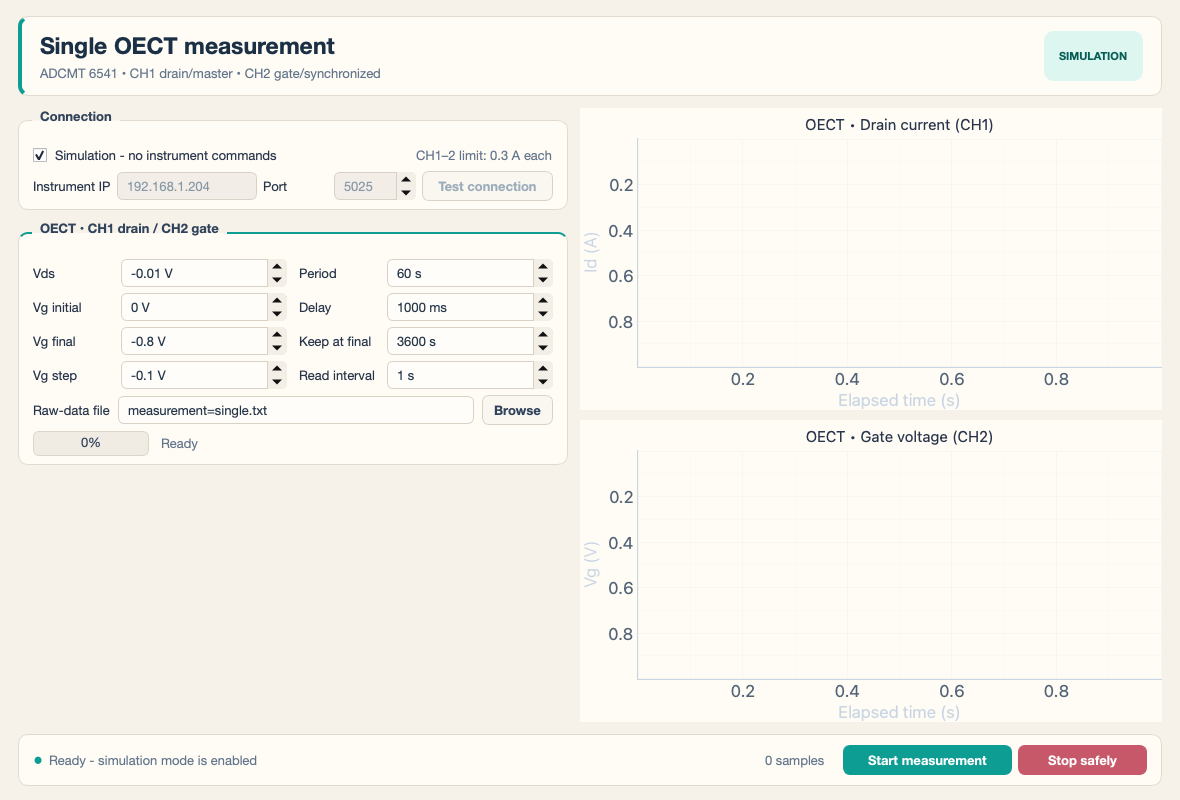
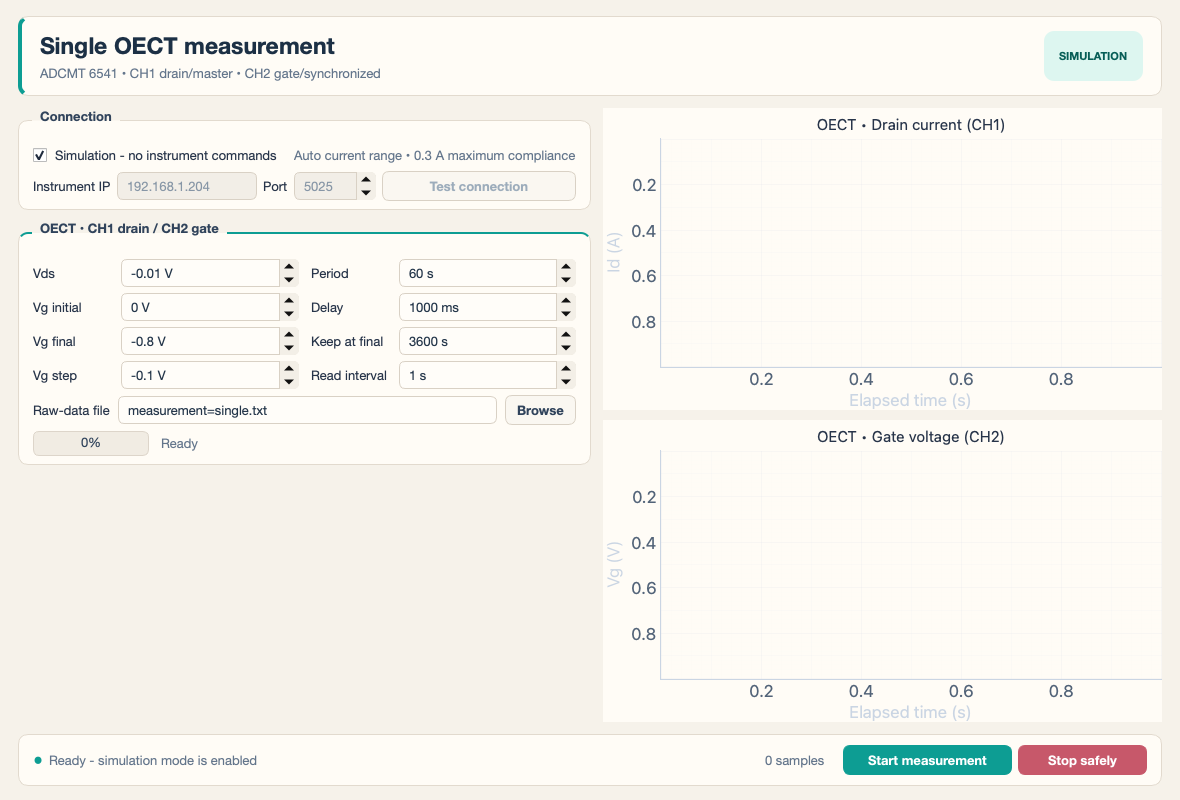
Enable automatic current ranging for OECT measurements

diff --git a/oect_dual_gui.py b/oect_dual_gui.py
@@ -257,7 +257,8 @@ class DualOECTInstrument:
                 f"SOV{format_number(voltage_v)}",
                 "FX0",
                 "F2",
-                "R1",
+                "R0",
+                "RD0",
                 "IT5",
                 "AZ0",
                 "RE5",
@@ -268,6 +269,11 @@ class DualOECTInstrument:
                 "ST1",
             ):
                 inst.write(command)
+            range_mode = inst.query("R?").replace(" ", "").upper()
+            if range_mode not in {"R0", "0", "+0"}:
+                raise ADCMTError(
+                    f"CH{channel} current auto-range verification failed: {range_mode!r}"
+                )
             if channel == 1:
                 for command in (
                     f"SP0,0.055,{format_number(base_ms)}",
@@ -863,9 +869,9 @@ class MainWindow(QtWidgets.QMainWindow):
         self.test_button = QtWidgets.QPushButton("Test connection")
         self.test_button.setProperty("secondary", True)
         self.test_button.clicked.connect(self._test_connection)
-        compliance = QtWidgets.QLabel("CH 1–4 limit: 0.3 A each")
+        compliance = QtWidgets.QLabel("Auto current range • 0.3 A maximum compliance")
         compliance.setProperty("muted", True)
-        compliance.setToolTip("Fixed current compliance on all four channels; confirm device safety before live runs")
+        compliance.setToolTip("Current measurement auto-ranges; maximum source compliance remains 0.3 A")
         grid.addWidget(self.simulation, 0, 0, 1, 3)
         grid.addWidget(compliance, 0, 3, 1, 3, QtCore.Qt.AlignRight)
         grid.addWidget(QtWidgets.QLabel("Instrument IP"), 1, 0)
@@ -1001,7 +1007,7 @@ class MainWindow(QtWidgets.QMainWindow):
         self.status_label.setText(
             "Ready - simulation mode is enabled"
             if checked
-            else "Ready - review wiring and fixed 0.3 A current limits before starting"
+            else "Ready - review wiring and polarity before starting"
         )
 
     def _cell_plan(self, name: str, controls: CellControls) -> CellPlan:
@@ -1075,18 +1081,6 @@ class MainWindow(QtWidgets.QMainWindow):
                 "Replace existing output?",
                 "The following output file(s) already exist and will be replaced:\n\n"
                 + "\n".join(str(path) for path in existing),
-                QtWidgets.QMessageBox.Yes | QtWidgets.QMessageBox.No,
-                QtWidgets.QMessageBox.No,
-            )
-            if answer != QtWidgets.QMessageBox.Yes:
-                return
-
-        if not plan.simulation:
-            answer = QtWidgets.QMessageBox.warning(
-                self,
-                "Confirm 0.3 A current limits",
-                "All four current limits are fixed at 0.3 A, matching the LabVIEW defaults. "
-                "That may be unsafe for an OECT. Start the live measurement anyway?",
                 QtWidgets.QMessageBox.Yes | QtWidgets.QMessageBox.No,
                 QtWidgets.QMessageBox.No,
             )

diff --git a/oect_single_gui.py b/oect_single_gui.py
@@ -99,7 +99,8 @@ class SingleOECTInstrument:
                 f"SOV{format_number(voltage_v)}",
                 "FX0",
                 "F2",
-                "R1",
+                "R0",
+                "RD0",
                 "IT5",
                 "AZ0",
                 "RE5",
@@ -110,6 +111,11 @@ class SingleOECTInstrument:
                 "ST1",
             ):
                 inst.write(command)
+            range_mode = inst.query("R?").replace(" ", "").upper()
+            if range_mode not in {"R0", "0", "+0"}:
+                raise ADCMTError(
+                    f"CH{channel} current auto-range verification failed: {range_mode!r}"
+                )
             if channel == 1:
                 commands = (
                     f"SP0,0.055,{format_number(base_ms)}",
@@ -399,7 +405,7 @@ class SingleOECTWindow(MainWindow):
         self.test_button = QtWidgets.QPushButton("Test connection")
         self.test_button.setProperty("secondary", True)
         self.test_button.clicked.connect(self._test_connection)
-        compliance = QtWidgets.QLabel("CH1–2 limit: 0.3 A each")
+        compliance = QtWidgets.QLabel("Auto current range • 0.3 A maximum compliance")
         compliance.setProperty("muted", True)
         grid.addWidget(self.simulation, 0, 0, 1, 3)
         grid.addWidget(compliance, 0, 3, 1, 3, QtCore.Qt.AlignRight)
@@ -486,18 +492,6 @@ class SingleOECTWindow(MainWindow):
             )
             if answer != QtWidgets.QMessageBox.Yes:
                 return
-        if not plan.simulation:
-            answer = QtWidgets.QMessageBox.warning(
-                self,
-                "Confirm 0.3 A current limits",
-                "CH1 and CH2 current limits are fixed at 0.3 A. "
-                "That may be unsafe for an OECT. Start the live measurement anyway?",
-                QtWidgets.QMessageBox.Yes | QtWidgets.QMessageBox.No,
-                QtWidgets.QMessageBox.No,
-            )
-            if answer != QtWidgets.QMessageBox.Yes:
-                return
-
         for values in self.plot_data["A"].values():
             values.clear()
         for curve in self.curves.values():

diff --git a/adcmt_6541_sync.py b/adcmt_6541_sync.py
@@ -75,7 +75,7 @@ class RunConfig:
             vds_b_v=float(raw["vds_b_v"]),
             current_limits_a=limits,  # type: ignore[arg-type]
             integration_code=str(raw.get("integration_code", "IT5")).upper(),
-            fixed_measurement_range=bool(raw.get("fixed_measurement_range", True)),
+            fixed_measurement_range=bool(raw.get("fixed_measurement_range", False)),
             batch_samples=int(raw.get("batch_samples", 60)),
             poll_interval_s=float(raw.get("poll_interval_s", 0.25)),
             output_csv=str(raw.get("output_csv", "oect_sync_measurement.csv")),
@@ -220,6 +220,8 @@ class ADCMT6541:
             self.write("FX0")       # explicit measurement function
             self.write("F2")        # DC current measurement
             self.write("R1" if cfg.fixed_measurement_range else "R0")
+            if not cfg.fixed_measurement_range:
+                self.write("RD0")   # no extra delay after an automatic range change
             self.write(cfg.integration_code)
             self.write("AZ0")       # auto-zero off for deterministic timing
             self.write("RE5")       # 5.5 digit output
@@ -535,6 +537,7 @@ def command_plan(cfg: RunConfig) -> list[str]:
                 "FX0",
                 "F2",
                 "R1" if cfg.fixed_measurement_range else "R0",
+                *([] if cfg.fixed_measurement_range else ["RD0"]),
                 cfg.integration_code,
                 "AZ0",
                 "RE5",

diff --git a/test_gui_synthetic.py b/test_gui_synthetic.py
@@ -133,6 +133,10 @@ class GuiSyntheticTests(unittest.TestCase):
             def write(self, command: str) -> None:
                 self.events.append(command)
 
+            def query(self, command: str) -> str:
+                self.events.append(command)
+                return "R0"
+
         with tempfile.TemporaryDirectory() as directory:
             def cell(
                 name: str,
@@ -166,6 +170,10 @@ class GuiSyntheticTests(unittest.TestCase):
             self.assertEqual(events.count("CP6"), 1)
             self.assertEqual(events.count("TG1"), 3)
             self.assertEqual(events.count("SP0,0.050,999"), 3)
+            self.assertEqual(events.count("R0"), 4)
+            self.assertEqual(events.count("RD0"), 4)
+            self.assertEqual(events.count("R?"), 4)
+            self.assertNotIn("R1", events)
             self.assertIn("SOV-0.01", events)
             self.assertIn("SOV-0.02", events)
             self.assertIn("SOV-0.1", events)
@@ -337,6 +345,7 @@ class GuiLayoutTests(unittest.TestCase):
             self.assertEqual(cell.ids_limit_a, 0.3)
             self.assertEqual(cell.ig_limit_a, 0.3)
         self.assertFalse(hasattr(self.window.controls_a, "ids_limit"))
+        self.assertNotIn("Confirm 0.3 A", self.window.status_label.text())
 
     def test_each_oect_has_an_independent_on_off_switch(self) -> None:
         self.window.controls_a.active.setChecked(False)

diff --git a/test_single_gui_synthetic.py b/test_single_gui_synthetic.py
@@ -56,6 +56,10 @@ class SingleInstrumentTests(unittest.TestCase):
             def write(self, command: str) -> None:
                 self.events.append((self.channel, command))
 
+            def query(self, command: str) -> str:
+                self.events.append((self.channel, command))
+                return "R0"
+
         with tempfile.TemporaryDirectory() as directory:
             plan = SingleExperimentPlan(
                 host="127.0.0.1",
@@ -75,6 +79,12 @@ class SingleInstrumentTests(unittest.TestCase):
                 )
             self.assertIn((1, "CP6"), fake.events)
             self.assertIn((2, "TG1"), fake.events)
+            self.assertIn((1, "R0"), fake.events)
+            self.assertIn((2, "R0"), fake.events)
+            self.assertIn((1, "RD0"), fake.events)
+            self.assertIn((2, "RD0"), fake.events)
+            self.assertNotIn((1, "R1"), fake.events)
+            self.assertNotIn((2, "R1"), fake.events)
             self.assertNotIn((3, "ST1"), fake.events)
             self.assertNotIn((4, "ST1"), fake.events)
 

diff --git a/test_synthetic.py b/test_synthetic.py
@@ -24,7 +24,7 @@ def synthetic_config() -> RunConfig:
             "vds_b_v": -0.02,
             "current_limits_a": [0.03, 0.003, 0.03, 0.003],
             "integration_code": "IT5",
-            "fixed_measurement_range": True,
+            "fixed_measurement_range": False,
             "batch_samples": 2,
             "poll_interval_s": 0.01,
             "output_csv": "synthetic.csv",
@@ -48,6 +48,9 @@ class SyntheticTests(unittest.TestCase):
         self.assertEqual(plan.count("CP7"), 3)
         self.assertEqual(plan.count("TG1"), 3)
         self.assertEqual(plan.count("OP1"), 3)
+        self.assertEqual(plan.count("R0"), 4)
+        self.assertEqual(plan.count("RD0"), 4)
+        self.assertNotIn("R1", plan)
         self.assertIn("SP0,0.055,1000", plan)
         self.assertEqual(plan.count("SP0,0.050,999"), 3)
 

diff --git a/README.md b/README.md
@@ -29,7 +29,7 @@ Double-click `launch_gui.command`, or run:
 
 The warm, cream-colored GUI starts in simulation mode so it cannot energize the instrument accidentally. OECT A and B have independent Vds, Vg initial/final/step, per-level hold, extra final keep, pre-measurement delay, output interval, and output filenames. Both control cards stay visible in a left column without scrolling. Each card orders its left controls as Vds, Vg initial, Vg final, Vg step; its right controls as period, delay, keep at final, read interval. The four larger, nearly square live plots put elapsed time horizontally and Id or Vg vertically, with the vertical axis inverted so more-negative values appear higher. Numeric controls omit unnecessary trailing zeros, and the spin-box arrows are dark for visibility; raw-data numeric formatting is unchanged.
 
-The current-limit controls are hidden. The GUI fixes drain and gate current limits on CH1–CH4 at **0.3 A each** and confirms that setting before a live run.
+The current-limit controls are hidden. The GUI keeps **0.3 A maximum compliance** on CH1–CH4 and uses the 6541's automatic current-measurement range (`R0`) with no added range-change delay (`RD0`). There is no extra confirmation dialog before a live run.
 
 The delay is *inside* each hold period: the gate changes at the start of the period, logging begins after the delay, and the next gate step starts when the hold period ends. The final keep time extends the last period.
 
@@ -53,7 +53,7 @@ This was checked against historical files under `../26.09.04/` and `../26.08.04/
 
 The GUI defaults were obtained from a full export of `../YZ_Stair case 2sim lvl_26.09.15.vi`: Vds -0.01 V, Vg 0 to -0.8 V in -0.1 V steps, 60 s period, 3600 s final keep, 1000 ms delay, 1 s interval, and 0.3 A drain/gate limits. Both OECT panels start with these voltage/timing values, then can be edited independently; current limits remain fixed.
 
-**Measurement-range caution:** the synchronized program uses fixed current measurement ranges (`R1`) tied to each channel's current limit. The inherited 0.3 A limits may both be unsafe and too coarse to resolve nanoampere currents. Verify them on a dummy load before a live run; to use a lower GUI limit, change `DEFAULT_CURRENT_LIMIT_A` in `oect_dual_gui.py`, or use the CLI's configurable limits. The GUI warns before every live run.
+**Current resolution:** `R1` with a 0.3 A compliance forced the 300 mA measurement range, whose resolution is 1 microampere. That caused nanoampere OECT currents to jump between values such as 0 and 1 microampere in both the display and raw file. The GUI now uses `R0`, allowing the instrument to select progressively lower ranges down to 3 microamperes (10 pA resolution). During auto-ranging, the configured compliance range remains the maximum available range.
 
 Python is not inherently more synchronous than LabVIEW; the 6541 hardware timing is what fixes the problem. Python is attractive here because a long-running state machine, batched CSV logging, error handling, and version control are simpler. If the current LabVIEW front panel is important, patching it according to the guide is equally valid.
 

diff --git a/LABVIEW_PATCH_GUIDE.md b/LABVIEW_PATCH_GUIDE.md
@@ -60,7 +60,8 @@ LMI<CH1 current limit in A>
 SOV<CH1 Vds in V>
 FX0
 F2
-R1
+R0
+RD0
 IT5
 AZ0
 RE5
@@ -87,7 +88,8 @@ LMI<channel current limit in A>
 SOV<channel source voltage in V>
 FX0
 F2
-R1
+R0
+RD0
 IT5
 AZ0
 RE5
@@ -132,8 +134,9 @@ The acquisition continues on the 6541 while LabVIEW reads an older memory range,
 
 ## Range and safety notes
 
-- `R1` makes the current-measurement range follow the current-limit range for voltage sourcing. Choose each `LMI` carefully. The example configuration preserves the original VI's 0.3 A values only as placeholders; lower them to a safe range for the OECTs before energizing the outputs.
-- Fixed source and measurement ranges avoid variable auto-ranging delays and missing data.
+- `R0` enables current-measurement auto-ranging. This is essential for OECT currents: with `R1` and a 0.3 A compliance, the instrument uses the 300 mA measurement range, whose resolution is only 1 microampere.
+- `RD0` selects no extra wait after a measurement-range change. The 1 s sampling period is much longer than the manual's representative 35 ms current-range switching time.
+- In voltage-source/current-measure mode, auto-ranging uses the configured `LMI` range as its maximum and may temporarily lower the effective limit while measuring on a lower range. An over-range result causes the instrument to range upward.
 - `IT5` is 1 PLC. A different integration time is possible, but it must fit comfortably inside the 1 s period.
 - CH1 and CH3 Vds may differ; CH2 and CH4 gate voltages may also differ. Synchronization controls timing, not source-value equality.
 - The 6541 does not output its own measurement timestamp. Treat the common memory address as the authoritative sample index and store a host UTC time for each step start.

diff --git a/GUI_PROGRAMS.md b/GUI_PROGRAMS.md
@@ -19,6 +19,8 @@ Open `launch_single_gui.command` for the separate one-OECT program.
 - CH2: gate voltage and gate-current measurement; synchronized slave.
 - CH3 and CH4: placed in standby with their external synchronization disabled.
 
-The single-OECT front panel uses the same voltage/timing controls, cream theme, inverted vertical plot axes, raw-data format, overwrite confirmation, simulation mode, and 0.3 A fixed current-limit warning as the dual program. Its default output is `measurement=single.txt` in the `ADCMT IV` mother folder.
+The single-OECT front panel uses the same voltage/timing controls, cream theme, inverted vertical plot axes, raw-data format, overwrite confirmation, and simulation mode as the dual program. Its default output is `measurement=single.txt` in the `ADCMT IV` mother folder.
+
+Both programs use the 6541's `R0` automatic current-measurement range with `RD0` range-change delay. The displayed 0.3 A value is the maximum compliance, not a fixed 300 mA measurement range. The instrument can therefore move down to its 3 microampere range, which has 10 pA resolution, instead of quantizing measurements to 1 microampere steps on the 300 mA range.
 
 Both programs set the active OECT's Vds and Vg to 0 V after its schedule finishes. Before a live experiment, validate the wiring and stop behavior with a short dummy-load run.
